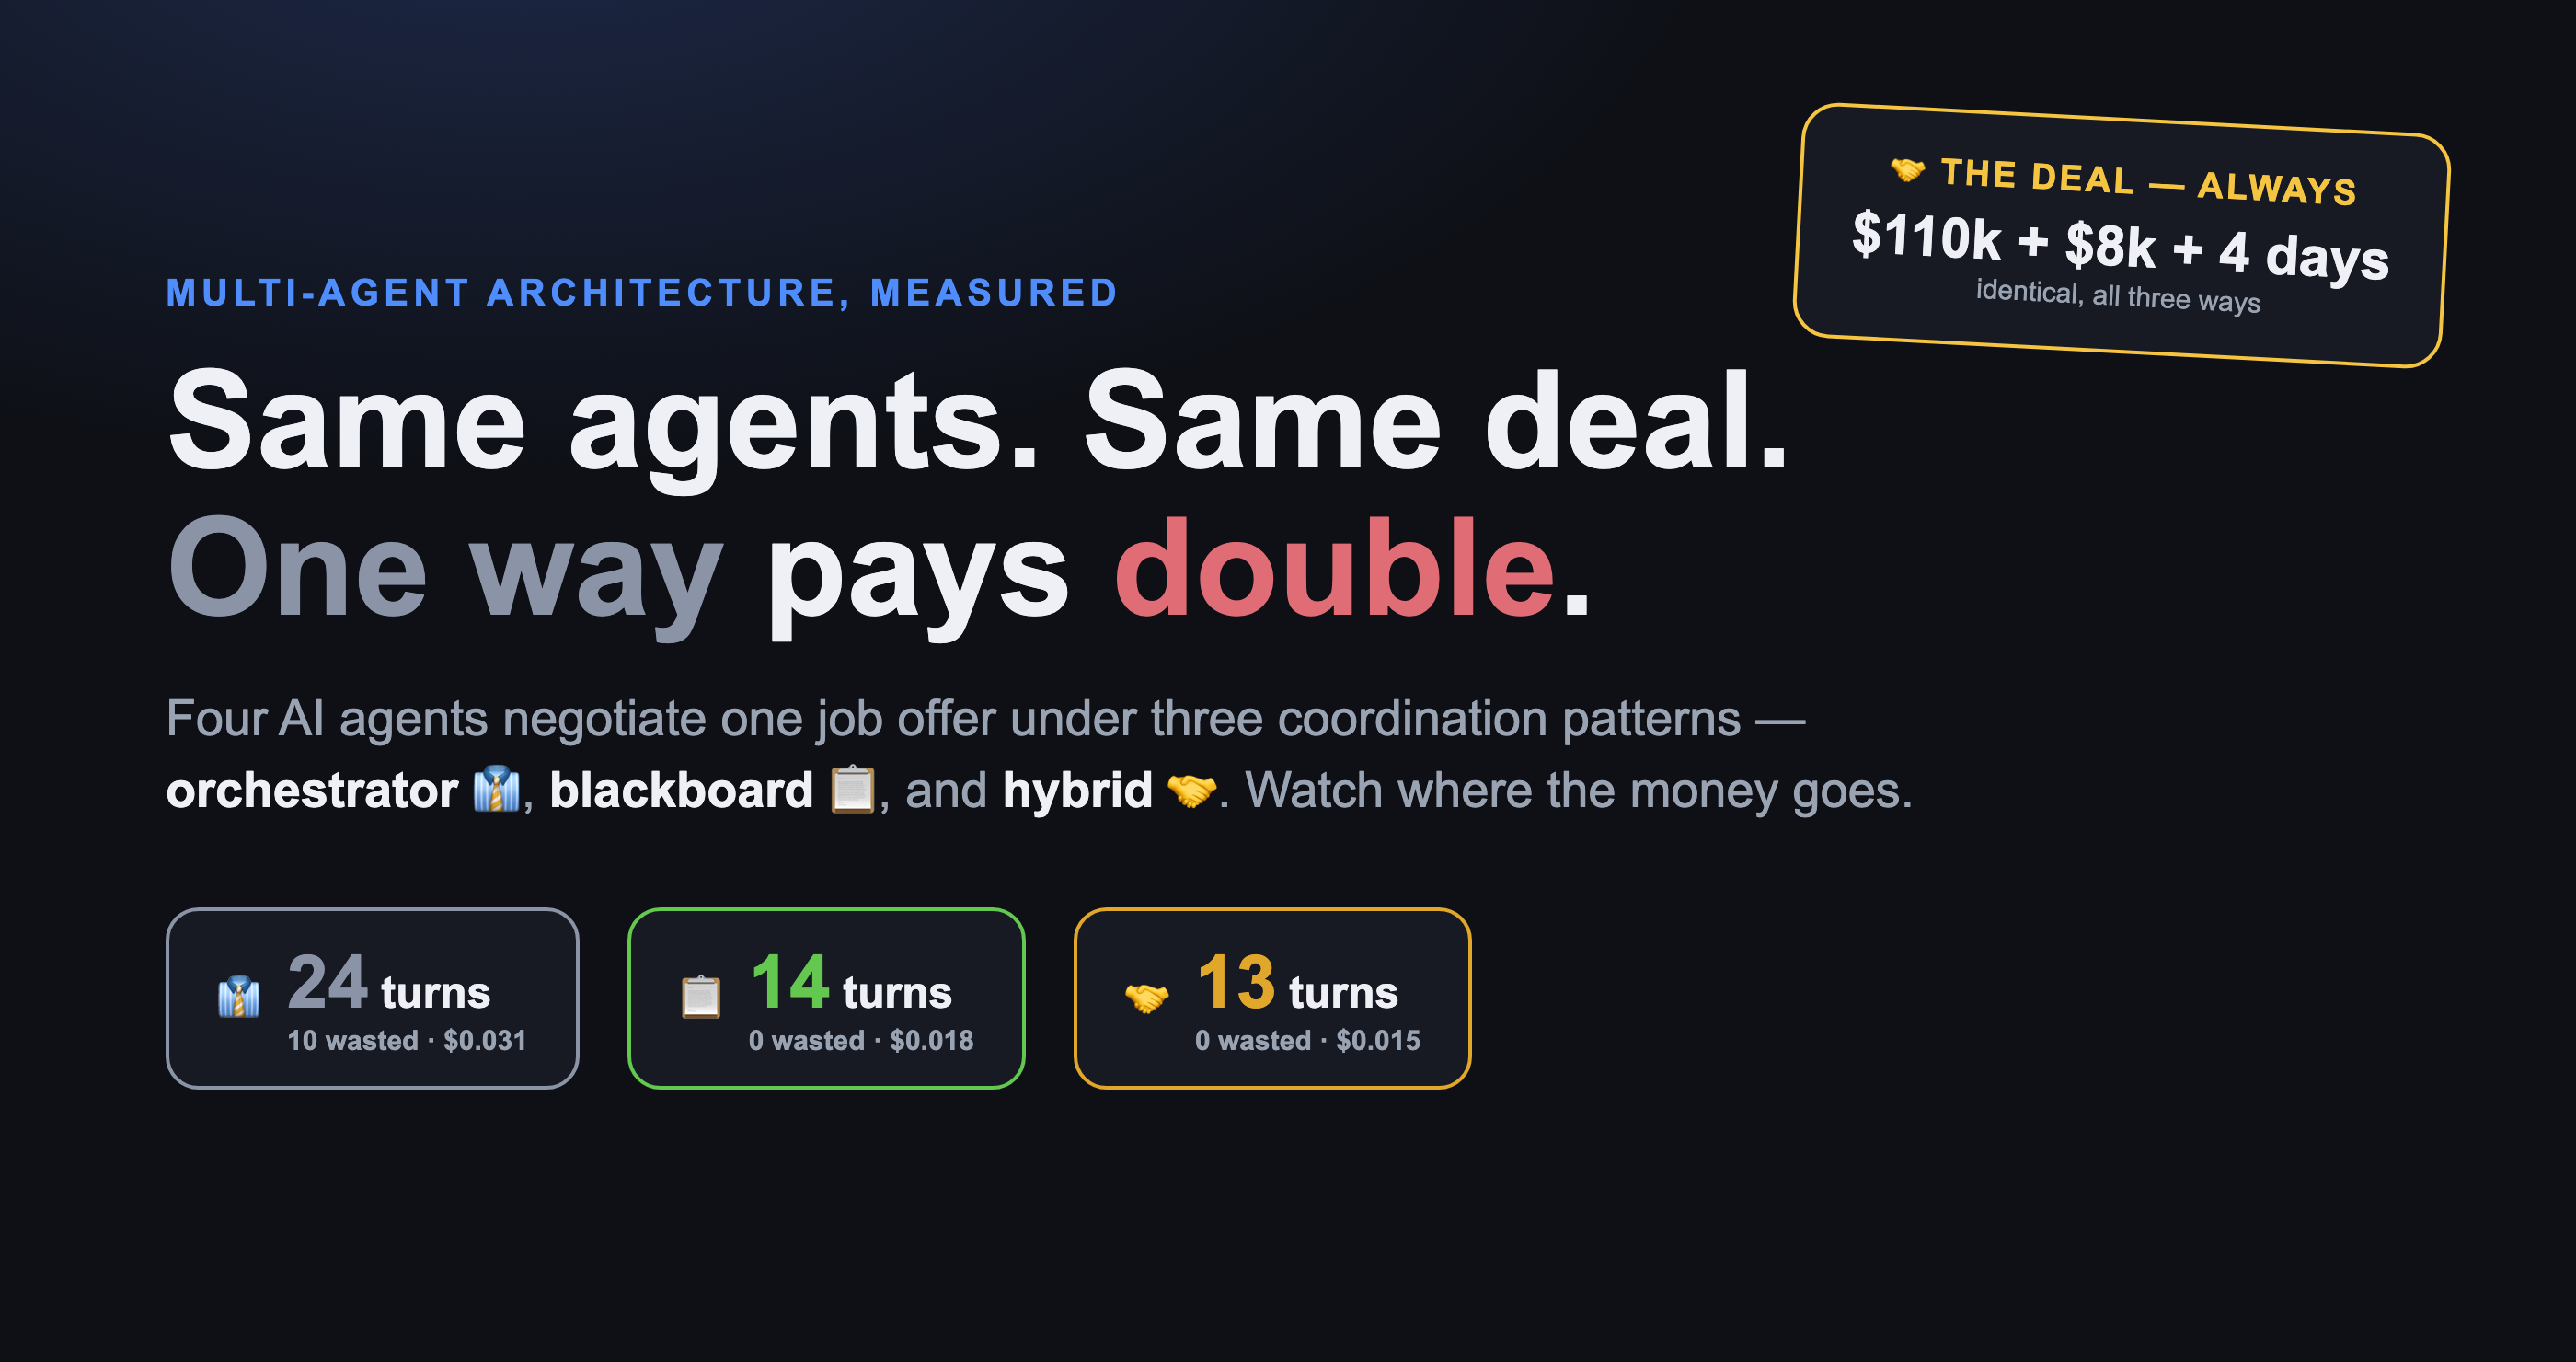
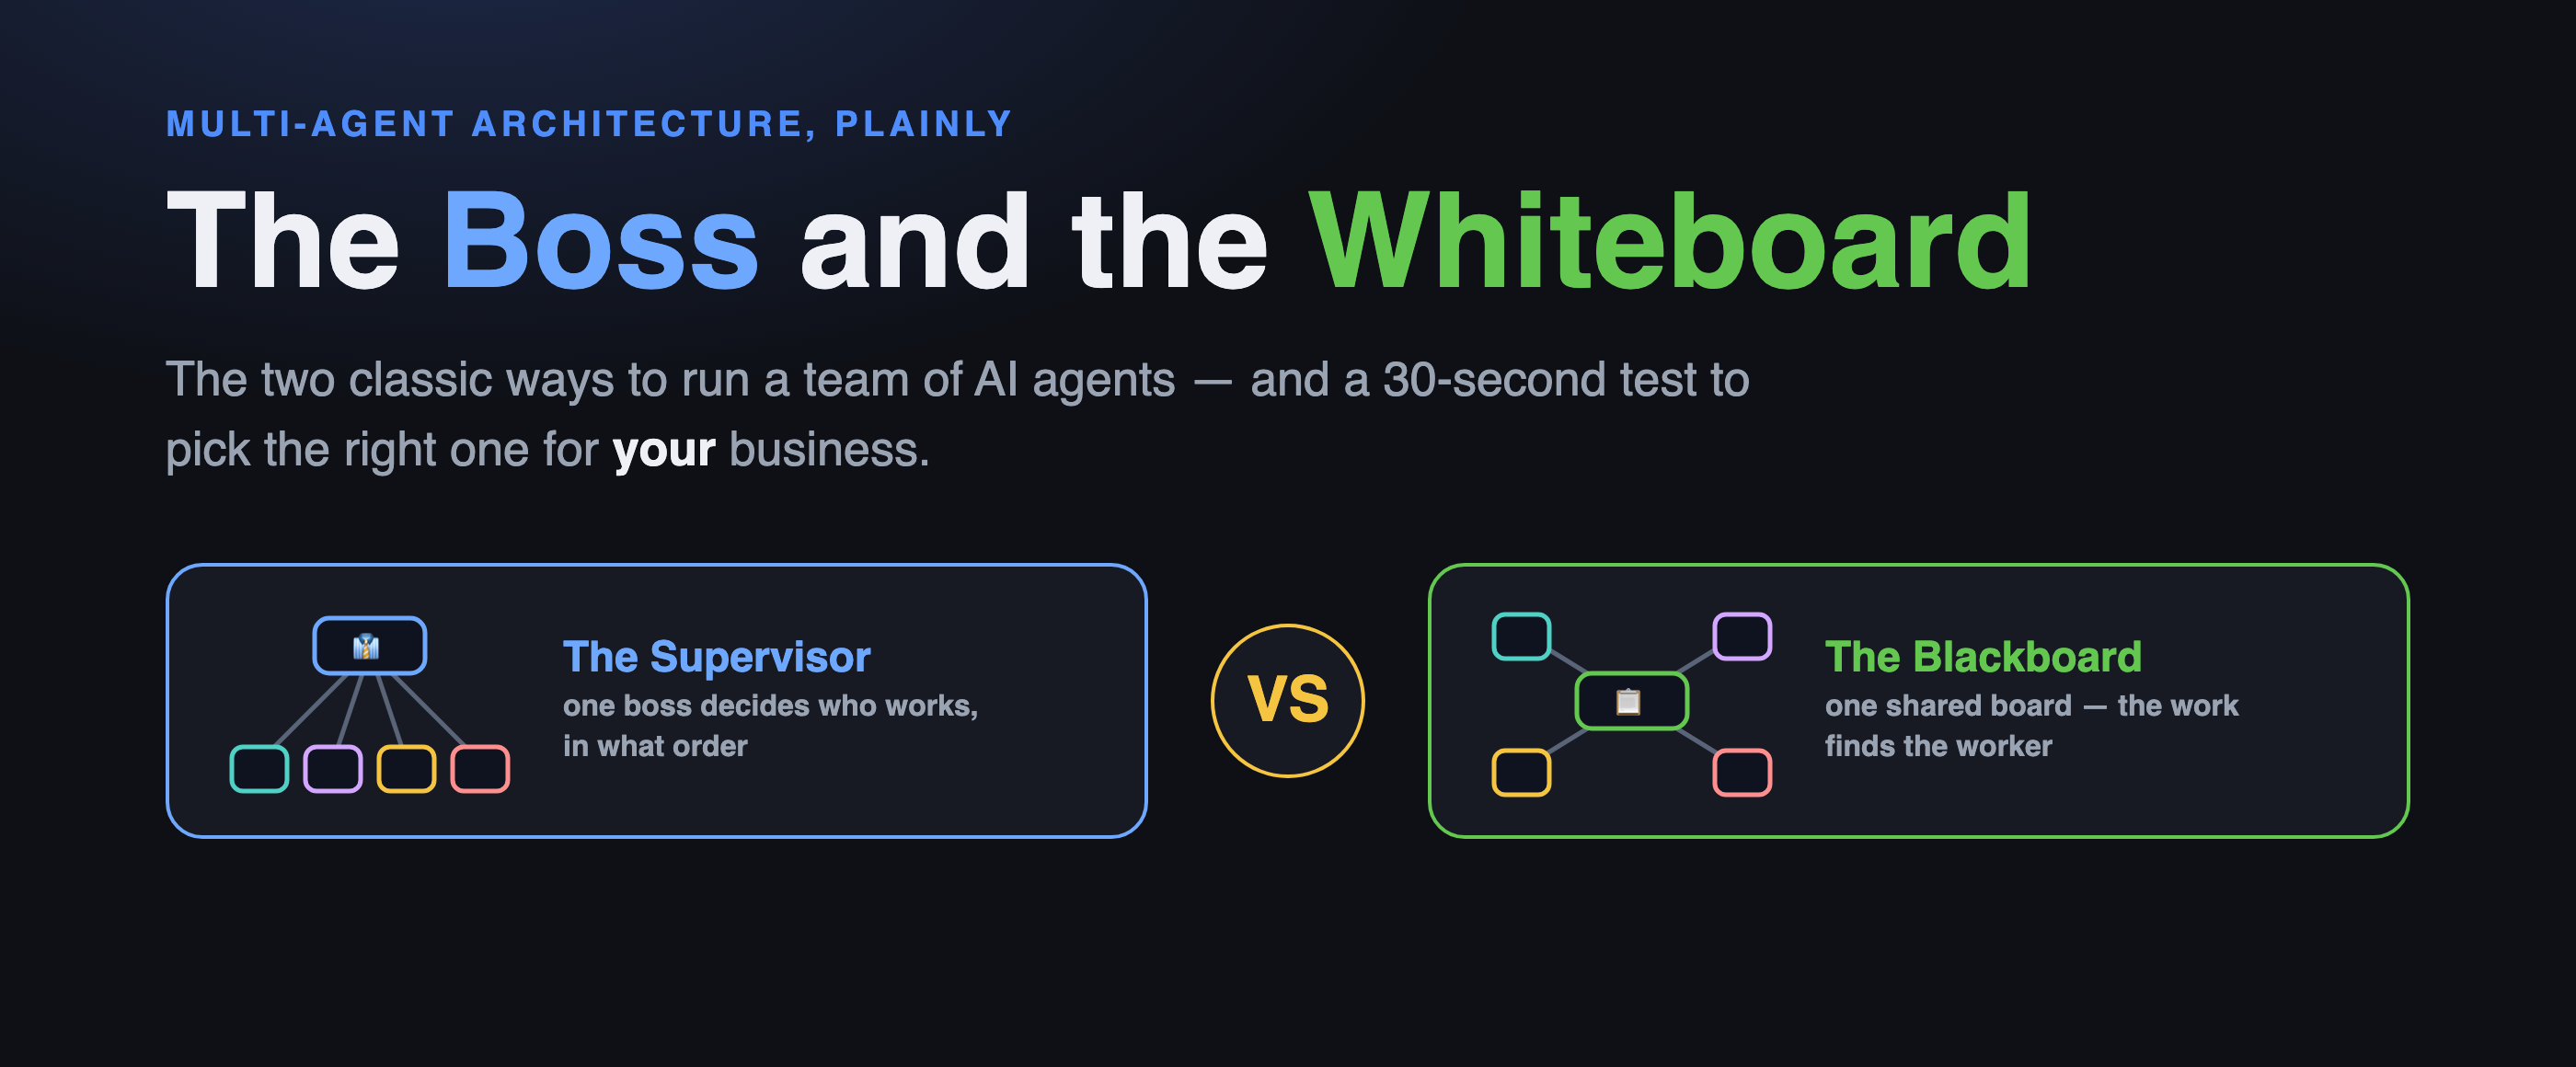
Rewrite Medium post: short concept piece — supervisor vs blackboard for SMEs
- ~750-word body: office analogy (status meeting vs team board), when to
  use each with industry examples (invoicing, KYC, content gates / fraud,
  incidents, supply chain), pocket checklist, repo only as end CTA
- images: new hero, side-by-side pattern card, decision cheat-sheet;
  demo-specific captures removed with the long draft

Changed region(s): [[0.0621, 0.0621, 0.9321, 0.4655], [0.0621, 0.4966, 0.9321, 0.8069], [0.0621, 0.0931, 0.4039, 0.1241]]

diff --git a/docs/medium-post.md b/docs/medium-post.md
@@ -1,132 +1,68 @@
 <!--
-  MEDIUM POST — ready to paste into the Medium editor.
+  MEDIUM POST — ready to paste into the Medium editor (~750 words, ~4 min read).
   Images live in docs/images/post/ — upload them at the marked spots.
   Cover image: 01-hero.png
-  Suggested tags: AI Agents, Multi-Agent Systems, Software Architecture, LLM, Anthropic
+  Suggested tags: AI Agents, Multi-Agent Systems, Artificial Intelligence, Software Architecture, Small Business
 -->
 
-# Same Agents. Same Deal. One Pattern Paid Double.
+# The Boss and the Whiteboard: The Two Classic Ways to Run a Team of AI Agents
 
-### I raced three multi-agent architectures on the exact same job-offer negotiation — with real Claude calls, a live scoreboard, and one uncomfortable bill.
+### Supervisor or blackboard? A four-minute guide to the most important multi-agent decision — with examples from businesses like yours.
 
-![Hero — Same agents. Same deal. One way pays double.](images/post/01-hero.png)
-*Four AI agents, one job offer, three coordination patterns. The deal is identical every time. The bill is not.*
+![The Boss and the Whiteboard](images/post/01-hero.png)
 
-Everyone is arguing about **which model** to use.
+Every multi-agent AI system ever built is secretly one of two offices. And you've worked in both.
 
-Almost nobody is measuring **how their agents take turns**.
+Here's the first one. Rana runs a fourteen-person online furniture shop. Monday, 9 a.m., status meeting. She goes around the table: marketing reports, she decides; ops reports, she decides; finance reports, she decides. Nobody speaks unless spoken to. It takes ninety minutes and half the room spends it waiting — yet nothing slips, and if a decision goes sideways, everyone knows exactly where it was made.
 
-So I built an experiment that removes every variable except one. Four AI agents negotiate one job offer. Same agents. Same rules. Same finish line. The only thing that changes is the *control loop* — the piece of code that decides **who speaks next**.
+Now the second. Thursday, 2 a.m., the payment provider dies mid-checkout. Nobody calls a meeting. Someone posts on the team board. The developer sees it and switches to the backup provider. Support sees the developer's note and updates the status page. Finance sees support's note and pauses automatic refunds. Nobody assigned anything to anyone. **The problem itself did the assigning.**
 
-The result: one pattern closed the deal in **13 turns**. Another needed **24 turns** — and 10 of them were pure waste. Same deal, same $110k salary, same $8k bonus, same 4 remote days.
+Those two mornings have names in AI architecture — and picking the wrong one is the most common way multi-agent projects quietly fail.
 
-**Double the cost, for the privilege of a worse architecture.**
+## The supervisor: one boss, many hands
 
-Here's the whole experiment — and a simple rule for when to use each pattern. Everything is open source, and you can replay the real recorded AI runs on your laptop **without an API key**: 👉 [**github.com/ali-saadat/orchestrator-vs-blackboard**](https://github.com/ali-saadat/orchestrator-vs-blackboard)
+The [supervisor (or orchestrator) pattern](https://www.anthropic.com/engineering/building-effective-agents) is Rana's meeting. One coordinator agent decides which specialist works, in what order, and reads every result before choosing the next move. Hub-and-spoke: the agents never talk to each other; everything flows through the boss.
 
----
+That buys you three precious things: predictability, auditability, debuggability. When something breaks, you replay the boss's decisions like meeting minutes.
 
-## The setup: a negotiation nobody can shortcut
+The bill: in the classic loop, the boss checks on every agent, every round — turns, tokens and latency in AI terms; time and money in yours. Most check-ins come back "no update, boss." You're billed anyway. And the boss is a bottleneck: nothing moves faster than the chair.
 
-Meet the cast:
+## The blackboard: no boss, one board
 
-- 🙋 **Candidate** — Sam asks for **$130k**.
-- 🧑💼 **Manager** — starts at **$100k**. That's a $30k gap. 😬
-- 📋 **HR** — has a rule: base salary can't go over the salary band. But nobody has announced the band yet…
-- 💰 **Finance** — has a rule too: salary + bonus together have a hard cap.
+The [blackboard pattern](https://en.wikipedia.org/wiki/Blackboard_(design_pattern)) — the AI world's name for the shared team whiteboard — is the 2 a.m. rescue. No coordinator. One board everyone can see. Specialist agents watch it and wake only when something relevant to them appears. Their output lands back on the board, which may wake someone else. Nobody knows the sequence in advance; **the board discovers the sequence.**
 
-![The Job Offer — the problem scene](images/post/03-story.png)
-*The problem, as the interactive demo tells it: a $30k gap, two hidden constraints, and four people who all must say yes.*
+The bill is different here. "Who decided that?" has no clean answer. There's no single point of control. And the wake-up triggers need real design work — a blackboard without well-designed triggers is just an expensive argument.
 
-Nobody can compute the final deal alone. The ask has to come down step by step, the offer has to come up, HR drops the band bombshell *mid-negotiation*, and Finance signs off at the end. It's a genuinely interdependent problem — the kind multi-agent systems exist for.
+![Two ways to run the same team](images/post/02-two-ways.png)
 
-One more thing that makes this a fair experiment: the agents' *decisions* are deterministic rules, and a deterministic gate decides when the deal is done. The LLM narrates each move (real Claude calls, recorded and replayable), but it never gets to change the math. That means **every difference you see below comes from the coordination pattern — nothing else.**
+## Match the pattern to the shape of the work
 
-## The three ways to run the same meeting
+**Supervisor-shaped work** is any process you could draw as a flowchart before it starts.
 
-An agent isn't just a model. It's a **model plus a harness** — the loop around it that decides who runs, when, and what they see. These are the three classic harnesses:
+- **Invoice processing:** intake → extract → validate → approve → pay. Same steps every time — and when the accountant asks why invoice #4127 was paid, the supervisor's log is the answer.
+- **Customer onboarding at a lender:** identity check, sanctions screen, credit pull, decision — in that order, with a paper trail a regulator can actually read.
+- **Content production:** draft → brand check → legal check → publish. Nothing ships without every gate passing, provably.
 
-![Three ways to run the same meeting](images/post/02-patterns.png)
-*Same four agents, same rules, same "done" check — only the control loop changes.*
+**Blackboard-shaped work** is a situation, not a sequence — you can't know in advance who must act, or in what order.
 
-**👔 The Orchestrator (hub & spoke).** A boss polls every agent, every round, in a fixed order. There is no shared board — agents only hear the boss. The run ends after a full lap where nobody changes anything. Predictable, auditable, easy to debug. But it pays *per agent × per round*, whether that agent had anything to say or not. I call this **the hub tax**.
+- **Fraud watching at an e-commerce shop:** an odd order lands on the board; the address checker, the velocity checker and the device-fingerprint agent each wake only if the case smells like their specialty.
+- **IT incident response:** is it the network, the database, or the update from an hour ago? The evidence decides who works.
+- **Supply-chain disruption:** a port closes. Logistics reroutes, procurement hunts for alternates, sales warns the big accounts — and who moves first depends entirely on what broke.
 
-**📋 The Blackboard (shared state).** Everyone reads and writes one shared board. A write wakes *only the agents subscribed to that field*. HR and Finance literally sleep through the salary haggling and wake up the moment a salary number lands. Nobody polls anybody. It pays *per change*.
+## The pocket checklist
 
-**🤝 The Hybrid (bounded board + tail).** The hot loop — Candidate, Manager, HR — shares the board. Finance runs once, at the end, as a deterministic sign-off step. This wins by encoding structure you already know… and breaks if you encode it wrong.
+**Pick the supervisor if:** the steps are known before you start; someone — a regulator, an auditor, your accountant — will ask "why?"; a wrong step costs more than a slow one.
 
-## The race 🏁
+**Pick the blackboard if:** you can't script who acts or when; events arrive on their own schedule; reaction speed beats tidy minutes; your specialists are mostly idle until *their* moment comes.
 
-The demo runs all three engines **concurrently on the same problem** and streams every message, every write, every wake-up, side by side. This is mid-race:
+Still torn? Default to the supervisor. Boring and auditable beats clever and unexplainable — right up until your problem stops being a sequence.
 
-![The race — three lanes, live ledgers](images/post/04-race.png)
-*Mid-race. Look at the Boss Way's ledger: "HR → Boss: ✅ nothing to change." "Finance → Boss: ✅ nothing to change." That's the hub tax, live on screen — 2 turns wasted already, while the other two lanes have zero.*
+![The 30-second decision](images/post/03-cheatsheet.png)
 
-Watch what each pattern *does* with its turns:
+Most real systems end up a mix: a supervisor running the regulated core, a blackboard wrapped around it watching for surprises. That's not indecision — it's the same reason your company has both standing meetings and a group chat.
 
-- The **orchestrator** asks HR and Finance for input on **every single haggling round** — while the only thing happening is Candidate and Manager trading numbers. Six wasted turns. Then, when the deal is done, it pays for **one more full lap** of "nothing to change" just to learn it's finished. Four more.
-- The **blackboard** wakes HR exactly once — when the first salary number hits the board — and Finance exactly once, at the end. Zero waste.
-- The **hybrid** does the same, minus even the kickoff call for Finance. It already *knows* Finance is a tail step.
-
-## The scoreboard
-
-All three land on the **identical deal**: $110k salary + $8k bonus + 4 remote days. Real recorded runs on Claude Haiku 4.5:
-
-![The scoreboard](images/post/06-scoreboard.png)
-*Identical outcome. 2× the turns, 2× the tokens, 2× the bill.*
-
-| Pattern | Turns | Wasted | Tokens | Real cost |
-|---|---|---|---|---|
-| 🥇 Hybrid | **13** | 0 | 4,123 | **$0.015** |
-| 🥈 Blackboard | **14** | 0 | 4,875 | $0.018 |
-| 🥉 Orchestrator | **24** | **10** | 8,464 | $0.031 |
-
-![The winner — podium](images/post/05-winner.png)
-*Less talk. Same deal. That's the whole idea.*
-
-Three cents doesn't sound scary. But this is four agents and one tiny negotiation on the cheapest model. The hub tax scales with **agents × rounds** — it's the *shape* of the curve that should worry you, not the absolute number. At production scale (more agents, longer runs, bigger models), that 2× gap is real money and real latency.
-
-## So orchestrators are bad? No — and this is the important part.
-
-If I had raced a *different* task, the podium would flip. The orchestrator's "waste" is the price of three things that are sometimes worth everything:
-
-**Use an 👔 orchestrator when the path is known and accountability matters.** Pipelines with a fixed order (research → draft → review → publish), compliance flows where you must show *who was asked, when, in what order*, anything where a wrong step is expensive and you want one throat to choke. The wasted polls are an insurance premium. This is also why Anthropic's own [multi-agent research system](https://www.anthropic.com/engineering/built-multi-agent-research-system) uses an orchestrator at the top: the *task decomposition* is the known structure.
-
-**Use a 📋 blackboard when you don't know who needs to act, or when.** Reactive, event-driven problems: incident response, monitoring, sensor fusion, anything where specialists should stay quiet until their trigger fires. This is the original 1980s [blackboard architecture](https://en.wikipedia.org/wiki/Blackboard_(design_pattern)) insight — opportunistic problem-solving when no fixed schedule fits. The trade: harder to audit, and you must design subscriptions carefully or you get churn instead of silence.
-
-**Use a 🤝 hybrid when part of the structure is known and part isn't.** Bound the reactive board to the genuinely unpredictable hot loop, and run the predictable parts as deterministic steps. Cheapest and fastest here — *because* I knew Finance was a tail step. Encode the wrong structure and it breaks. Knowledge is leverage; wrong knowledge is debt.
-
-And a counterpoint worth reading before you build any of this: Cognition argues you often [shouldn't build multi-agents at all](https://cognition.ai/blog/dont-build-multi-agents) — a single agent with good context beats a committee more often than you'd think. The honest first question isn't "which pattern?" It's "do I need more than one agent?"
-
-## The one-sentence takeaway
-
-> **Your coordination pattern is a pricing model.** The orchestrator pays per agent per round. The blackboard pays per change. The hybrid pays per change where it can't predict, and ~zero where it can.
-
-Pick the pricing model that matches your problem's shape — *before* you pick your model.
-
-## Try it yourself (no API key needed)
-
-Everything above is reproducible in two commands:
-
-```
-git clone https://github.com/ali-saadat/orchestrator-vs-blackboard
-cd orchestrator-vs-blackboard && ./run.sh     # Windows: run.bat
-```
-
-That's it — your browser opens the story-driven demo and replays the **real recorded Claude runs** from a cassette file, offline, free. Add your own Anthropic API key later if you want to run it live, swap models (Haiku/Sonnet/Opus), or change the negotiation numbers and watch the three engines diverge.
-
-The repo is built for teaching: an A2-simple guided story for newcomers, an expert dashboard with full event streams, a [classroom guide](https://github.com/ali-saadat/orchestrator-vs-blackboard/blob/main/docs/TEACHING.md), and a [when-to-use decision guide](https://github.com/ali-saadat/orchestrator-vs-blackboard/blob/main/docs/WHEN-TO-USE.md).
-
-⭐ If this saved you a wasted sprint (or a wasted 10 turns), star the repo: [**github.com/ali-saadat/orchestrator-vs-blackboard**](https://github.com/ali-saadat/orchestrator-vs-blackboard)
+If you keep one line, keep this: **the supervisor bills you per meeting; the blackboard bills you per event. Processes have meetings. Emergencies don't.**
 
 ---
 
-### References & further reading
-
-- Nii, H.P. (1986) — [*Blackboard Systems*](https://ojs.aaai.org/aimagazine/index.php/aimagazine/article/view/537), AI Magazine — the original architecture.
-- [Blackboard design pattern](https://en.wikipedia.org/wiki/Blackboard_(design_pattern)) — Wikipedia.
-- Anthropic — [*Building Effective Agents*](https://www.anthropic.com/engineering/building-effective-agents) — workflows vs agents, orchestrator-workers.
-- Anthropic — [*How we built our multi-agent research system*](https://www.anthropic.com/engineering/built-multi-agent-research-system).
-- LangGraph — [multi-agent architectures](https://langchain-ai.github.io/langgraph/concepts/multi_agent/) — supervisor & network patterns in practice.
-- Microsoft — [Magentic-One](https://www.microsoft.com/en-us/research/articles/magentic-one-a-generalist-multi-agent-system-for-solving-complex-tasks/) — a production orchestrator design.
-- Cognition — [*Don't Build Multi-Agents*](https://cognition.ai/blog/dont-build-multi-agents) — the case for one good agent.
+*Want to see the difference instead of imagining it? I built an open-source playground where these two patterns (plus a hybrid) race on the same problem, turn by turn, with real measured costs: [github.com/ali-saadat/orchestrator-vs-blackboard](https://github.com/ali-saadat/orchestrator-vs-blackboard).*